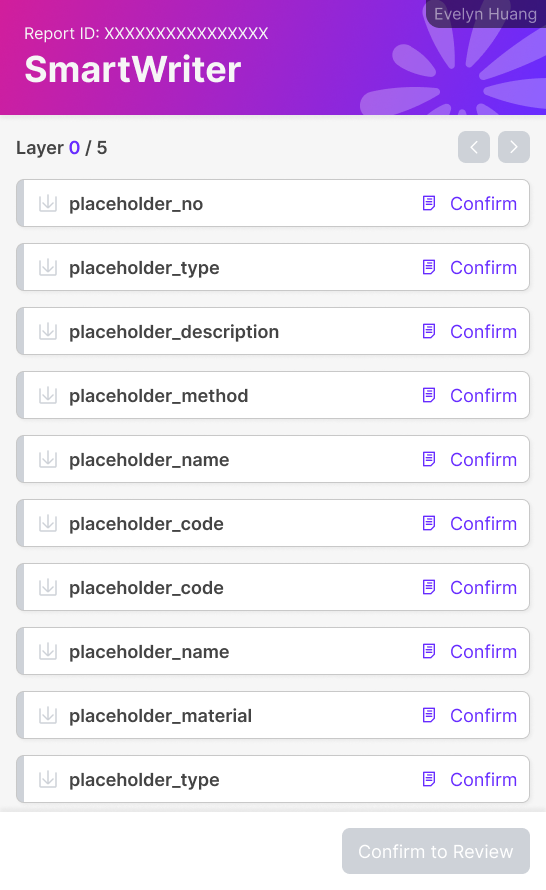
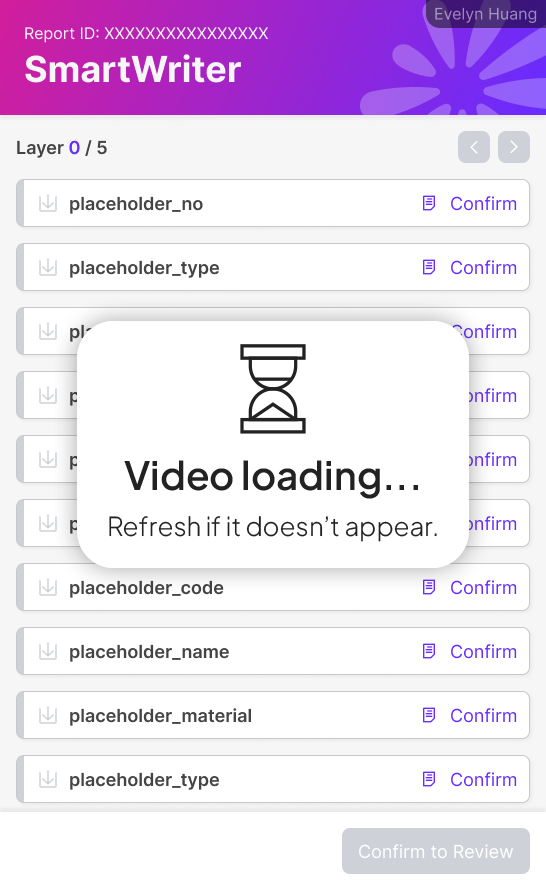
[Contents] Added poster for videos

Changed region(s): [[0.1245, 0.3337, 0.8718, 0.6371], [0.1868, 0.6371, 0.8095, 0.6674], [0.7784, 0.4854, 0.8095, 0.5461]]

diff --git a/src/contents/projects/smartMedicalWriting/component/Highlight1A.tsx b/src/contents/projects/smartMedicalWriting/component/Highlight1A.tsx
@@ -120,27 +120,20 @@ const Highlight1A = ({
                             animateIn={true}
                             animateOut={animateOut || allFinished}
                         >
-                            <div>
-
-                                <video
-                                    ref={el => {
-                                        if (el) videoRefs.current[0] = el
-                                    }}
-                                    src={uiVideo1}
-                                    style={{ width: 360 }}
-                                    muted
-                                    playsInline
-                                    preload="auto"
-                                    onEnded={() => {
-                                        setTimeout(() => {handleVideoEnded(0)}, 500)
-                                    }}
-                                />
-                                <img
-                                    src={uiVideo1Base}
-                                    style={{position: 'absolute', left: 0, top: 0, zIndex: -1, width: 360 }}
-                                    alt={'UI requiring users to click into each variable to check the value. Which caused double steps, more mouse movement, and interruptions.'}
-                                />
-                            </div>
+                            <video
+                                ref={el => {
+                                    if (el) videoRefs.current[0] = el
+                                }}
+                                src={uiVideo1}
+                                poster={uiVideo1Base}
+                                style={{ width: 360 }}
+                                muted
+                                playsInline
+                                preload="auto"
+                                onEnded={() => {
+                                    setTimeout(() => {handleVideoEnded(0)}, 500)
+                                }}
+                            />
                         </Card>
                     </div>
                 </div>
@@ -205,26 +198,20 @@ const Highlight1A = ({
                             animateIn={true}
                             animateOut={animateOut || allFinished}
                         >
-                            <div>
-                                <video
-                                    ref={el => {
-                                        if (el) videoRefs.current[1] = el
-                                    }}
-                                   src={uiVideo2}
-                                   style={{ width: 360 }}
-                                   muted
-                                   playsInline
-                                   preload="auto"
-                                   onEnded={() => {
-                                       setTimeout(() => { handleVideoEnded(1) }, 500)
-                                   }}
-                                />
-                                <img
-                                    src={uiVideo2Base}
-                                    style={{position: 'absolute', left: 0, top: 0, zIndex: -1, width: 360}}
-                                    alt={'UI allowing variables to be checked in the list and then automatically fold. Which caused more development efforts and cognitive loads, especially when the value is long.'}
-                                />
-                            </div>
+                            <video
+                                ref={el => {
+                                    if (el) videoRefs.current[1] = el
+                                }}
+                               src={uiVideo2}
+                               poster={uiVideo2Base}
+                               style={{ width: 360 }}
+                               muted
+                               playsInline
+                               preload="auto"
+                               onEnded={() => {
+                                   setTimeout(() => { handleVideoEnded(1) }, 500)
+                               }}
+                            />
                         </Card>
                     </div>
                 </div>
@@ -289,26 +276,20 @@ const Highlight1A = ({
                             animateIn={true}
                             animateOut={animateOut || allFinished}
                         >
-                            <div>
-                                <video
-                                    ref={el => {
-                                        if (el) videoRefs.current[2] = el
-                                    }}
-                                    src={uiVideo3}
-                                    style={{ width: 360 }}
-                                    muted
-                                    playsInline
-                                    preload="auto"
-                                    onEnded={() => {
-                                        setTimeout(() => {handleVideoEnded(2)}, 500)
-                                    }}
-                                />
-                                <img
-                                    src={uiVideo3Base}
-                                    style={{position: 'absolute', left: 0, top: 0, zIndex: -1, width: 360}}
-                                    alt={'UI adding only a previous & next variable button on the detail page. Which reduced the steps, mouse movement, and interruptions, as well as the development effort and cognitive loads.'}
-                                />
-                            </div>
+                            <video
+                                ref={el => {
+                                    if (el) videoRefs.current[2] = el
+                                }}
+                                src={uiVideo3}
+                                poster={uiVideo3Base}
+                                style={{ width: 360 }}
+                                muted
+                                playsInline
+                                preload="auto"
+                                onEnded={() => {
+                                    setTimeout(() => {handleVideoEnded(2)}, 500)
+                                }}
+                            />
                         </Card>
                     </div>
                 </div>

diff --git a/src/contents/projects/dormitoryVillage/index.tsx b/src/contents/projects/dormitoryVillage/index.tsx
@@ -23,6 +23,8 @@ import final6 from "./img/final6.png";
 import final7 from "./img/final7.png";
 import video1 from "./img/video1.mp4";
 import video2 from "./img/video2.mp4";
+import video1Base from "./img/video1Base.png";
+import video2Base from "./img/video2Base.png";
 import ecosystem from "./img/ecosystem.png";
 import {RightArrowLargeIcon} from "../../../assets/icons/RightArrowLargeIcon";
 
@@ -779,7 +781,7 @@ const dormitoryVillage = createProject({
                         animateIn={animateIn}
                         animateOut={animateOut}
                     >
-                        <video src={video1} style={{height: '100%'}} autoPlay loop muted playsInline />
+                        <video src={video1} poster={video1Base} style={{height: '100%'}} autoPlay loop muted playsInline />
                     </Card>
                 )
             },
@@ -823,7 +825,7 @@ const dormitoryVillage = createProject({
                         animateIn={animateIn}
                         animateOut={animateOut}
                     >
-                        <video src={video2} style={{height: '100%'}} autoPlay loop muted playsInline />
+                        <video src={video2} poster={video2Base} style={{height: '100%'}} autoPlay loop muted playsInline />
                     </Card>
                 )
             },

diff --git a/src/contents/projects/cbeasy/index.tsx b/src/contents/projects/cbeasy/index.tsx
@@ -34,6 +34,7 @@ import outcome3_6 from "./img/outcome3_6.png";
 import outcome3_7 from "./img/outcome3_7.png";
 import outcome3_8 from "./img/outcome3_8.png";
 import uiVideo1 from "./img/uivideo1.mp4";
+import uiVideo1Base from "./img/uivideo1_base.png";
 import {RightArrowLargeIcon} from "../../../assets/icons/RightArrowLargeIcon";
 import CardSlide from "../../../components/CardSlide";
 import InfoLabel from "../../../components/InfoLabel";
@@ -867,7 +868,7 @@ const cbeasy = createProject({
                         animateIn={animateIn}
                         animateOut={animateOut}
                     >
-                        <video src={uiVideo1} style={{width: 480}} autoPlay loop muted playsInline />
+                        <video src={uiVideo1} poster={uiVideo1Base} style={{width: 480}} autoPlay loop muted playsInline />
                     </Card>
                 )
             },

diff --git a/src/contents/projects/exploreInVirtualLight/index.tsx b/src/contents/projects/exploreInVirtualLight/index.tsx
@@ -679,7 +679,7 @@ const exploreInVirtualLight = createProject({
                         animateOut={animateOut}
                     >
                         <div>
-                            <video src={uiVideo} style={{height: 720}} autoPlay loop muted playsInline />
+                            <video src={uiVideo} poster={ui1} style={{height: 720}} autoPlay loop muted playsInline />
                             <img
                                 src={ui1}
                                 style={{position: 'absolute', left: 0, top: 0, zIndex: -1, height: 720}}

diff --git a/src/contents/projects/smartMedicalWriting/index.tsx b/src/contents/projects/smartMedicalWriting/index.tsx
@@ -261,7 +261,7 @@ const smartMedicalWriting = createProject({
                             fontWeight: 600,
                             fontSize: '36px',
                         }}>
-                            Variable<br />position<br />pconfig
+                            Variable<br />position<br />config
                         </span>
                     </Card>
                 )
